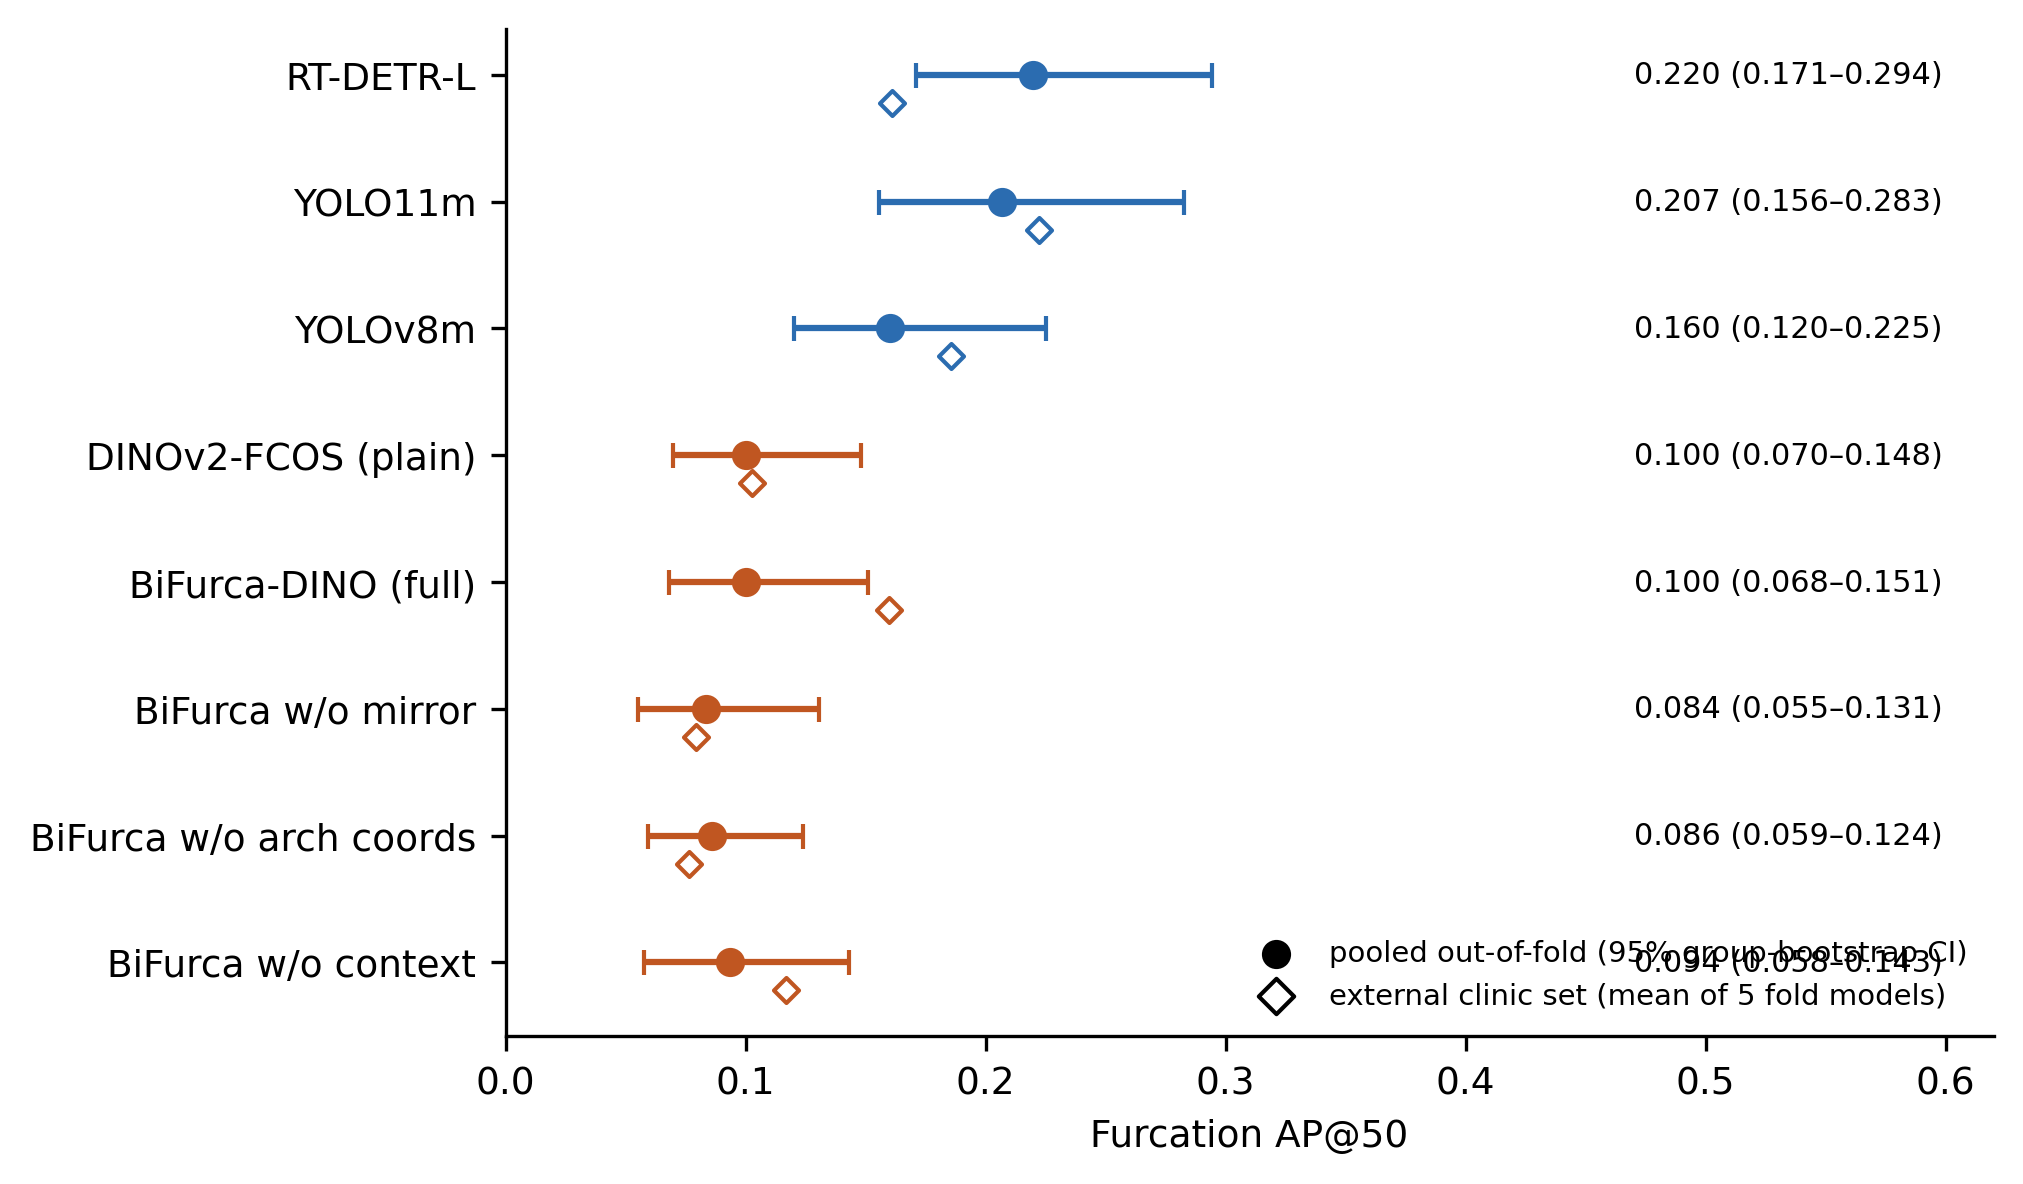
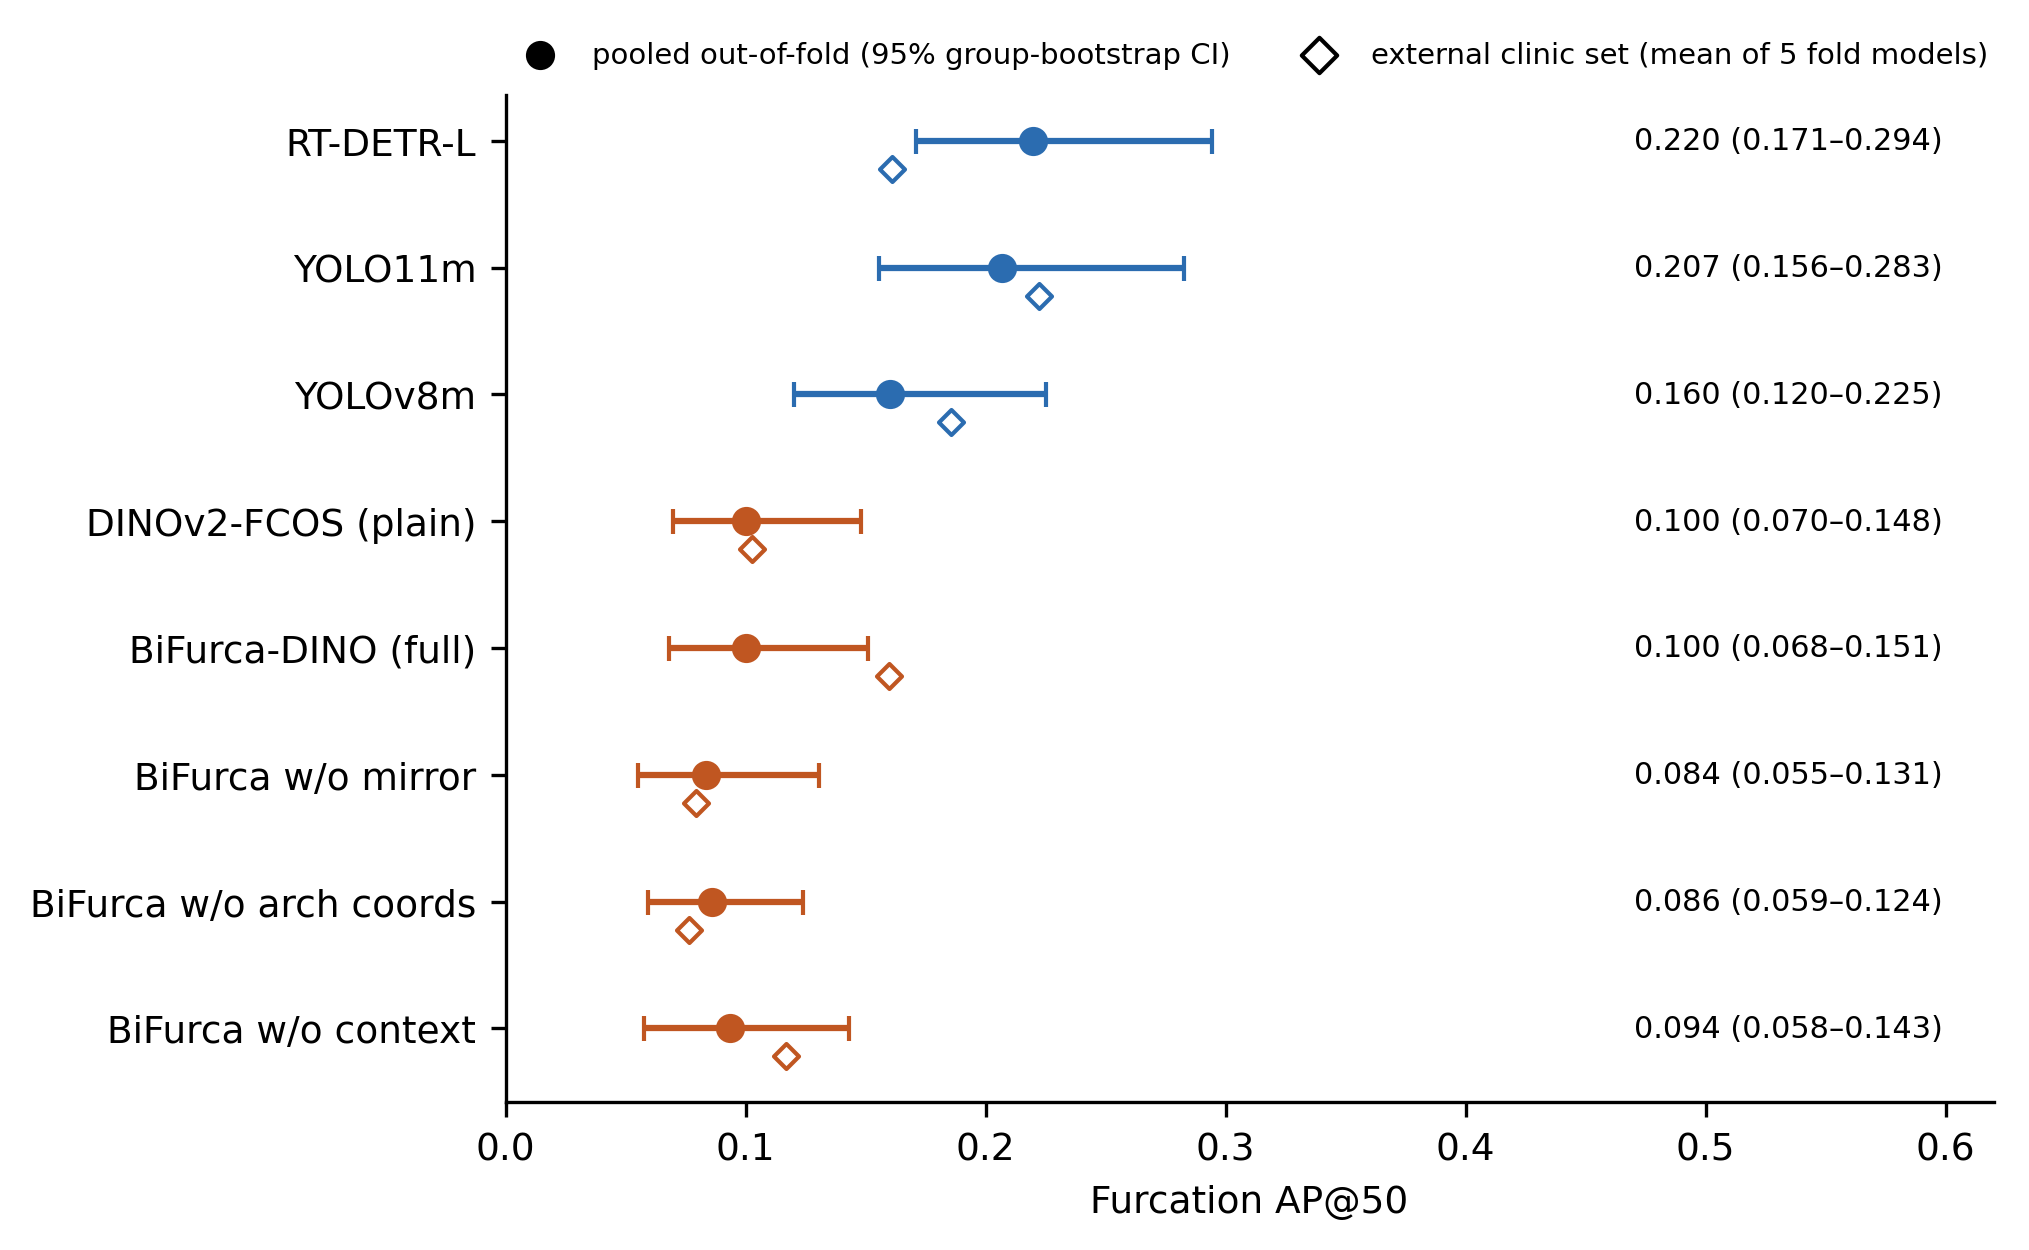
Update figures (legend placement, ablation labels) and add submission packager

diff --git a/paper/package_submission.py b/paper/package_submission.py
@@ -1,0 +1,48 @@
+"""Collect the submission set into paper/submission/: manuscript, supplement, a stand-alone Tables file, every figure as
+a separate 300-dpi TIFF and PNG, and every table as CSV.   python paper/package_submission.py
+Run after make_figs_tables.py and build_manuscript.py (finalize.ps1 does both)."""
+import csv, glob, os, shutil
+from docx import Document
+from docx.enum.section import WD_ORIENT
+from docx.shared import Pt, Inches
+
+HERE = os.path.dirname(os.path.abspath(__file__))
+OUT = os.path.join(HERE, "submission")
+shutil.rmtree(OUT, ignore_errors=True)
+for d in ("Figures", "Supplementary_Figures", "Tables_CSV"):
+    os.makedirs(os.path.join(OUT, d))
+
+shutil.copy2(os.path.join(HERE, "manuscript", "Furcation_Benchmark_Manuscript.docx"), os.path.join(OUT, "Manuscript.docx"))
+shutil.copy2(os.path.join(HERE, "manuscript", "Furcation_Benchmark_Supplementary.docx"), os.path.join(OUT, "Supplementary_Material.docx"))
+for f in sorted(glob.glob(os.path.join(HERE, "figures", "*.*"))):
+    sub = "Supplementary_Figures" if os.path.basename(f).startswith("FigureS") else "Figures"
+    shutil.copy2(f, os.path.join(OUT, sub, os.path.basename(f)))
+for f in glob.glob(os.path.join(HERE, "tables", "*.csv")):
+    shutil.copy2(f, os.path.join(OUT, "Tables_CSV", os.path.basename(f)))
+
+# stand-alone Tables file (landscape, main tables 1-5) for journals that want tables separately
+CAP = {"Table1_dataset_folds": "Table 1. Development folds and external set.",
+       "Table2_main_results": "Table 2. Furcation detection and other findings, pooled out-of-fold over five group-disjoint folds.",
+       "Table3_preregistered_criteria": "Table 3. Pre-registered criteria for claiming a new detector (all four required).",
+       "Table4_paired_comparisons": "Table 4. Paired comparisons of furcation AP@50.",
+       "Table5_minimum_evaluation_standard": "Table 5. Proposed minimum evaluation standard for radiographic furcation detection."}
+doc = Document()
+s = doc.sections[0]; s.orientation = WD_ORIENT.LANDSCAPE
+s.page_width, s.page_height = s.page_height, s.page_width
+for m in ("left_margin", "right_margin", "top_margin", "bottom_margin"):
+    setattr(s, m, Inches(0.7))
+doc.styles["Normal"].font.name = "Times New Roman"; doc.styles["Normal"].font.size = Pt(10)
+for k, (name, cap) in enumerate(CAP.items()):
+    if k:
+        doc.add_page_break()
+    rows = list(csv.reader(open(os.path.join(HERE, "tables", name + ".csv"), encoding="utf-8")))
+    doc.add_paragraph().add_run(cap).bold = True
+    t = doc.add_table(rows=len(rows), cols=len(rows[0])); t.style = "Table Grid"
+    for i, row in enumerate(rows):
+        for j, c in enumerate(row):
+            cell = t.cell(i, j); cell.text = ""
+            r = cell.paragraphs[0].add_run(c); r.font.size = Pt(9); r.bold = i == 0
+doc.save(os.path.join(OUT, "Tables.docx"))
+for root, _, files in os.walk(OUT):
+    for f in sorted(files):
+        print(os.path.relpath(os.path.join(root, f), OUT))

diff --git a/paper/make_figs_tables.py b/paper/make_figs_tables.py
@@ -148,7 +148,7 @@ ax.set_yticks(range(len(ORDER))); ax.set_yticklabels([NAME[v] for v in ORDER[::-
 ax.set_xlim(0, 0.62); ax.set_xlabel("Furcation AP@50")
 ax.scatter([], [], marker="o", color="k", label="pooled out-of-fold (95% group-bootstrap CI)")
 ax.scatter([], [], marker="D", facecolor="white", edgecolor="k", label="external clinic set (mean of 5 fold models)")
-ax.legend(frameon=False, fontsize=7, loc="lower right")
+ax.legend(frameon=False, fontsize=7, loc="lower center", bbox_to_anchor=(0.5, 1.0), ncol=2)
 save(fig, "Figure3_primary_endpoint")
 
 # ---------------------------------------------------------------- Figure 4: PR curves
